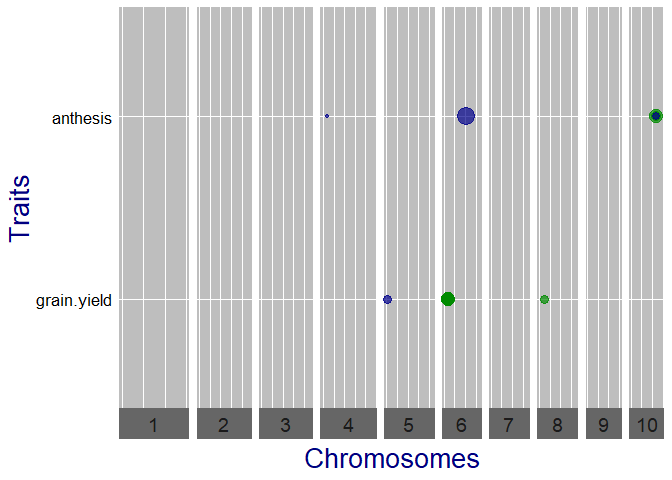
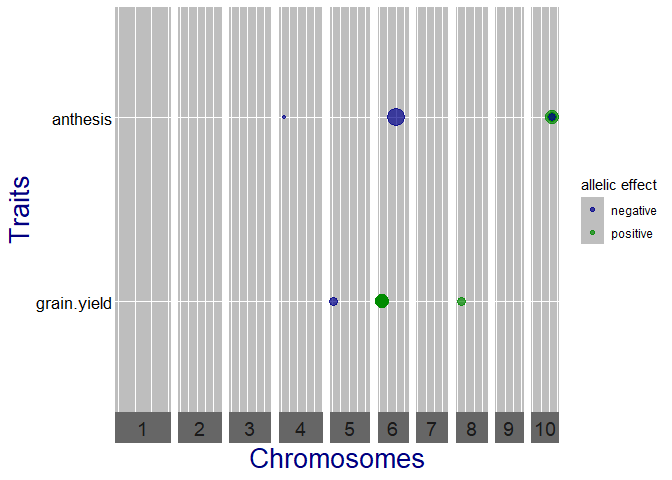
Replaced master by main in readme

diff --git a/README.md b/README.md
@@ -7,7 +7,7 @@
 [![CRAN RStudio mirror
 downloads](https://cranlogs.r-pkg.org/badges/statgenGWAS)](https://www.r-pkg.org/pkg/statgenGWAS)
 [![R-CMD-check](https://github.com/Biometris/statgenGWAS/workflows/R-CMD-check/badge.svg)](https://github.com/Biometris/statgenGWAS/actions?workflow=R-CMD-check)
-[![codecov](https://codecov.io/gh/Biometris/statgenGWAS/branch/master/graph/badge.svg)](https://app.codecov.io/gh/Biometris/statgenGWAS)
+[![codecov](https://codecov.io/gh/Biometris/statgenGWAS/branch/main/graph/badge.svg)](https://app.codecov.io/gh/Biometris/statgenGWAS)
 
 **statgenGWAS** is an R package for fast single trait Genome Wide
 Association Studies (GWAS).
@@ -91,14 +91,14 @@ GWASDrops <- runSingleTraitGwas(gData = gDataDropsDedup,
 plot(GWASDrops, plotType = "qq", trait = "grain.yield")
 ```
 
-<img src="man/figures/README-qqStg-1.png" width="75%" />
+<img src="man/figures/README-qqStg-1.png" alt="" width="75%" />
 
 ``` r
 ## Manhattan plot of GWAS Drops.
 plot(GWASDrops, plotType = "manhattan", trait = "grain.yield")
 ```
 
-<img src="man/figures/README-manhattanStg-1.png" width="75%" />
+<img src="man/figures/README-manhattanStg-1.png" alt="" width="75%" />
 
 ``` r
 ## Qtl plot of GWAS Drops.
@@ -106,4 +106,4 @@ plot(GWASDrops, plotType = "manhattan", trait = "grain.yield")
 plot(GWASDrops, plotType = "qtl", yThr = 4, normalize = TRUE)
 ```
 
-<img src="man/figures/README-qtlStgNorm-1.png" width="75%" />
+<img src="man/figures/README-qtlStgNorm-1.png" alt="" width="75%" />
